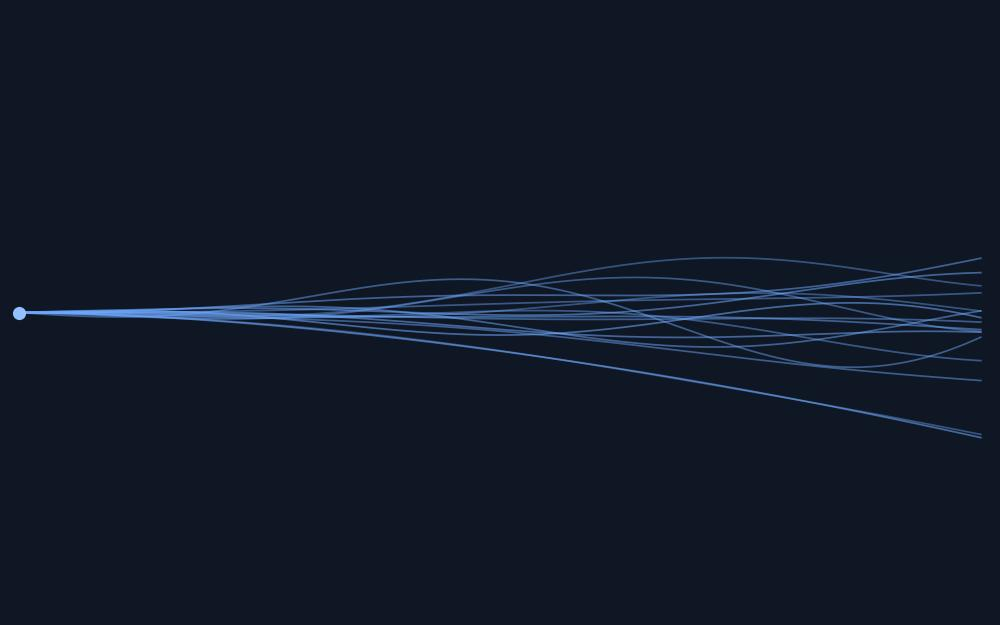
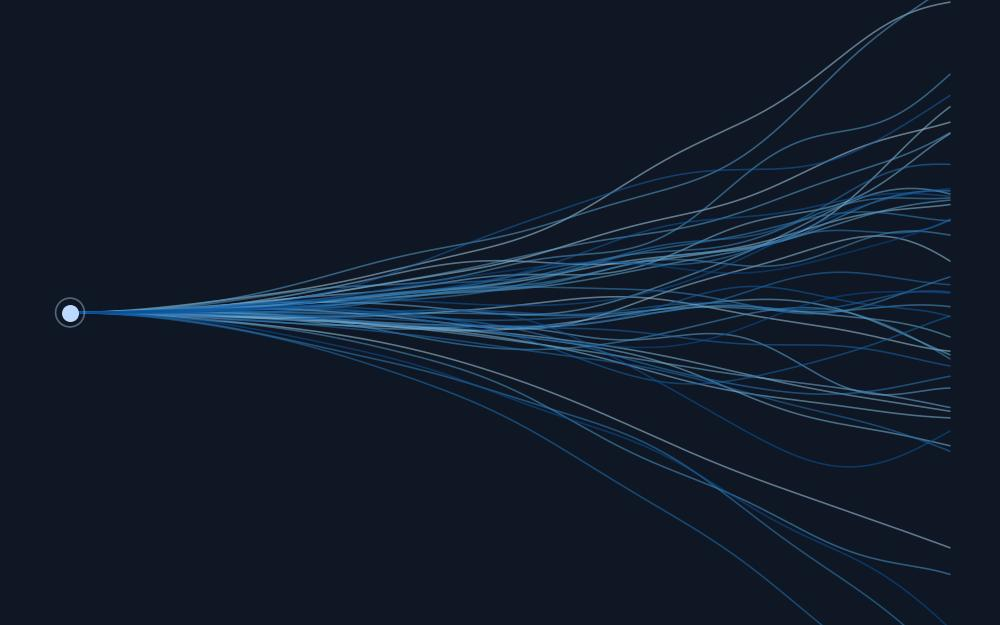
Better images for the three entries that had no photography
Each one now illustrates what the project actually does rather than being
generic decoration: a workspace partitioned by which fixed noise vector wins
in each region; many paths leaving one start state and separating over time;
and a cable-driven continuum arm with its tendons and reachable envelope.

All three are drawn, not photographed, and carry no axes, numbers or legends,
so none of them can be read as a plot of measured results. Cache-busters
bumped because the filenames are unchanged.

diff --git a/index.html b/index.html
@@ -69,7 +69,7 @@
 
     <article class="entry">
       <span class="entry-thumb">
-        <img src="assets/thumbs/ticketbank.jpg" alt="Illustration: a field of candidate noise samples with a few selected, each covering a region" loading="lazy" width="1000" height="625" />
+        <img src="assets/thumbs/ticketbank.jpg?v=3" alt="Illustration: a field of candidate noise samples with a few selected, each covering a region" loading="lazy" width="1000" height="625" />
       </span>
       <div>
         <span class="entry-tag">Robot Learning</span>
@@ -82,7 +82,7 @@
 
     <article class="entry">
       <span class="entry-thumb">
-        <img src="assets/thumbs/noise-space.jpg" alt="Illustration: trajectories leaving one start state and separating over time" loading="lazy" width="1000" height="625" />
+        <img src="assets/thumbs/noise-space.jpg?v=3" alt="Illustration: trajectories leaving one start state and separating over time" loading="lazy" width="1000" height="625" />
       </span>
       <div>
         <span class="entry-tag">Robot Learning</span>
@@ -95,7 +95,7 @@
 
     <article class="entry">
       <span class="entry-thumb">
-        <img src="assets/thumbs/tecorobot.jpg?v=2" alt="Illustration: a continuum arm bending through a range of poses" loading="lazy" width="1000" height="625" />
+        <img src="assets/thumbs/tecorobot.jpg?v=3" alt="Illustration: a continuum arm bending through a range of poses" loading="lazy" width="1000" height="625" />
       </span>
       <div>
         <span class="entry-tag">Soft Robotics</span>
